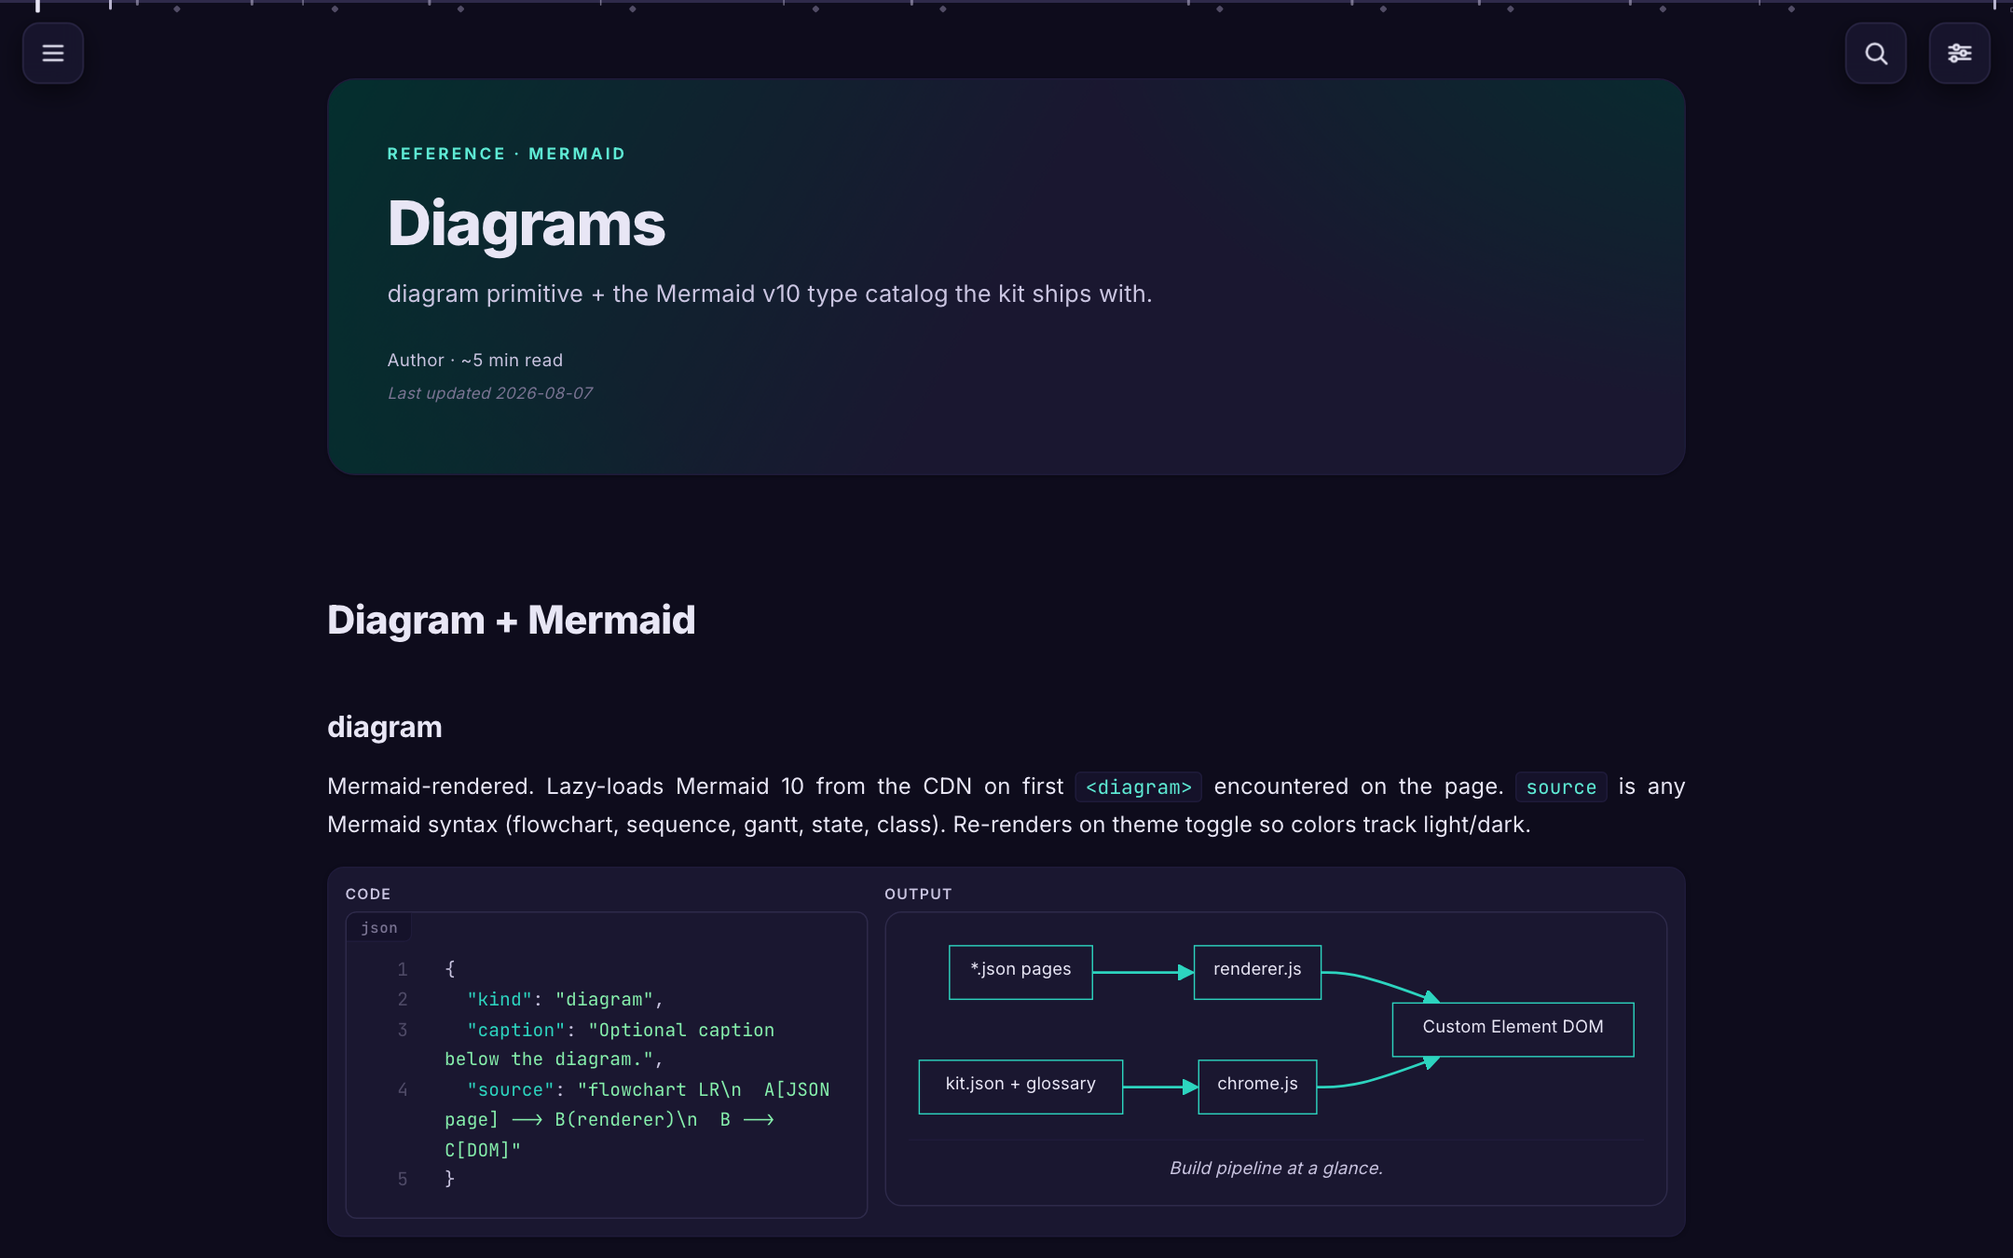
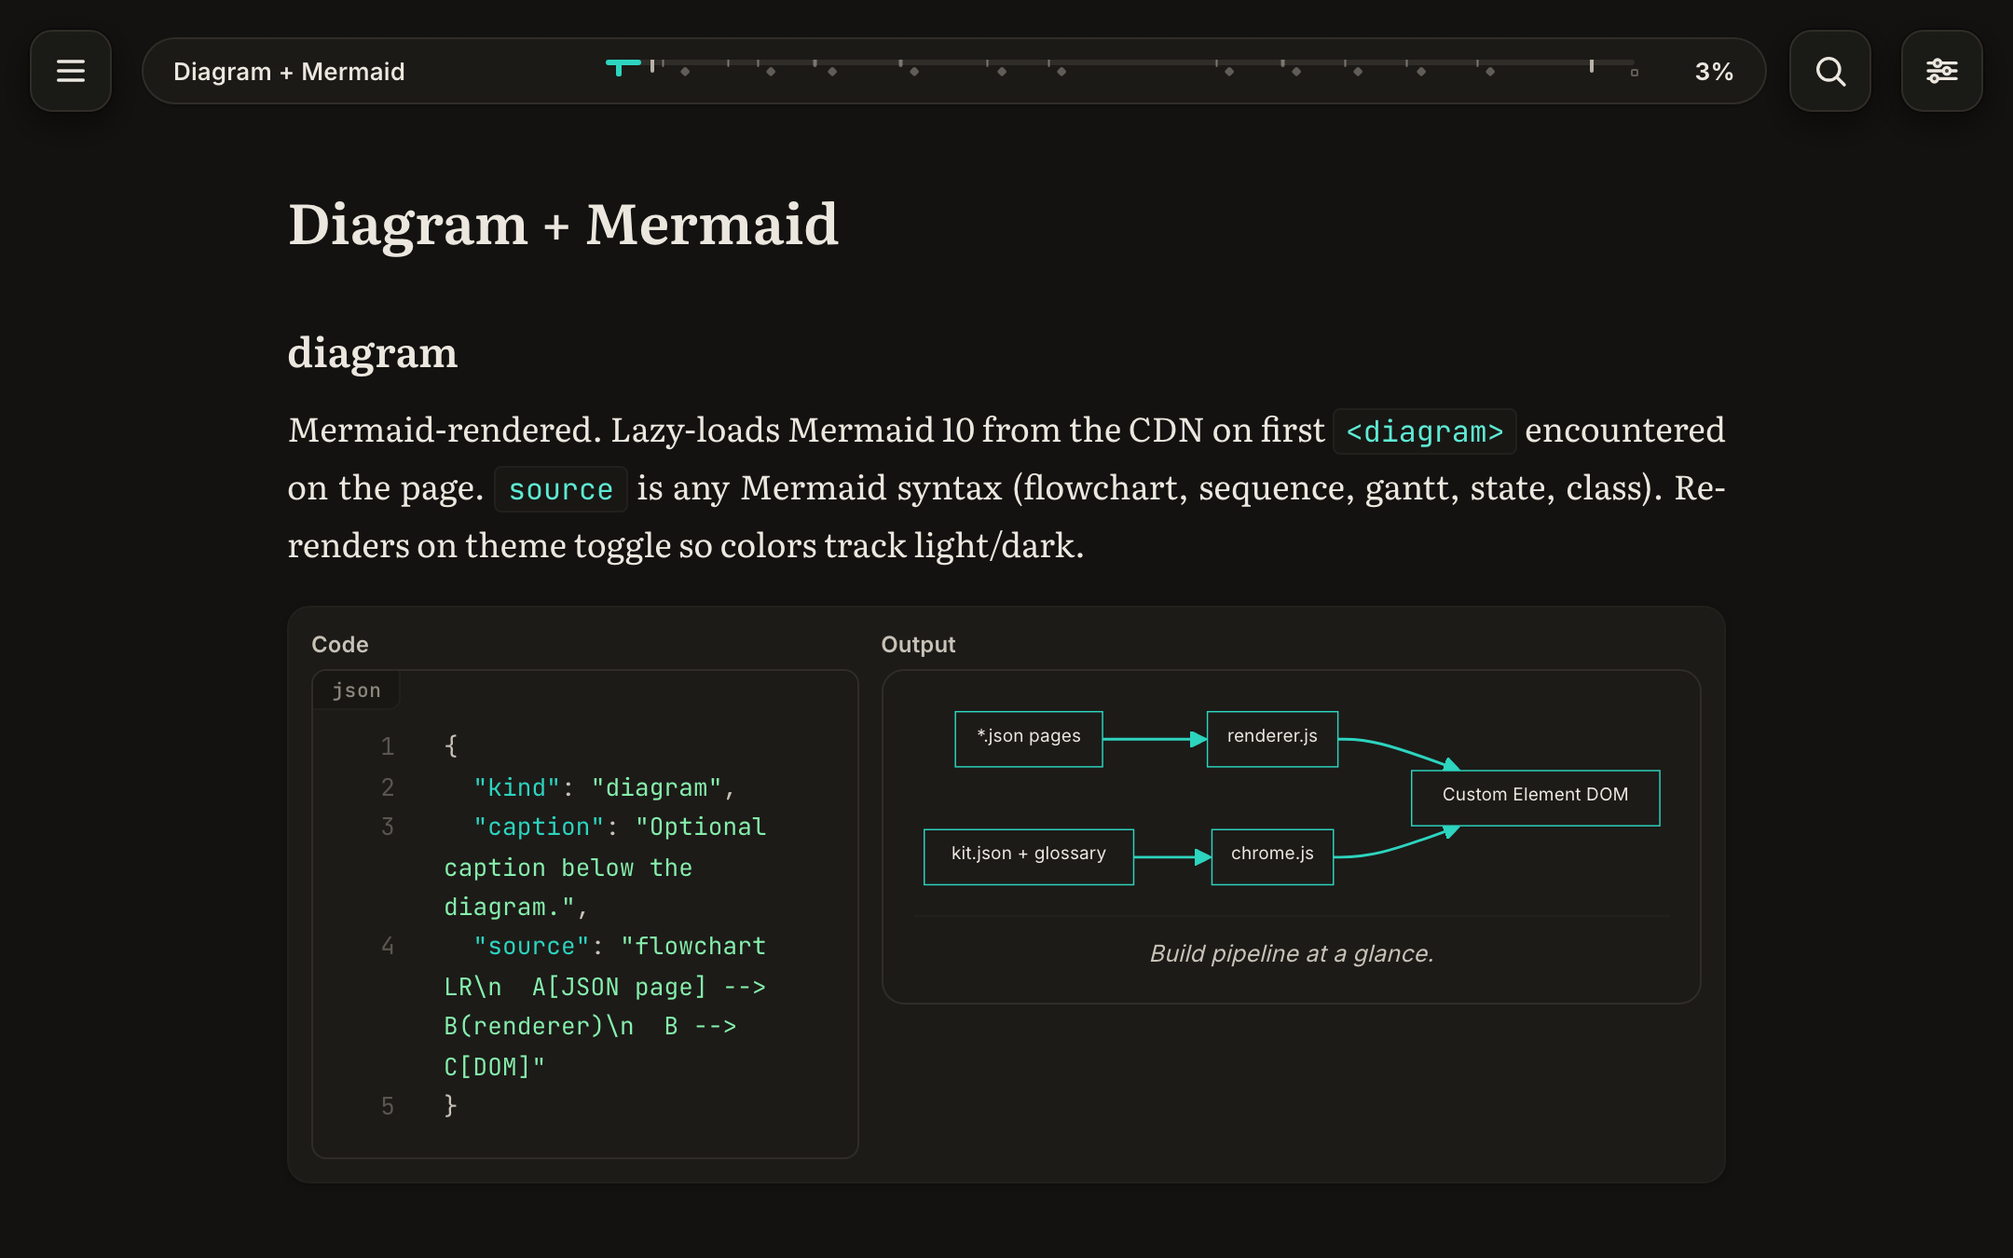
docs(site): landing and README screenshots retaken with kit r118
The six were from kit r82: tracked capitals, the tinted cover panel, Inter
in the reading column, no rail. tools/landing_shots.py now takes them: it
builds docs/ with this checkout, serves dist/site on loopback (search
needs Pagefind's index over HTTP), puts each page in a stated state,
measures it and writes .github/assets/ and the site/assets/ copies.

Captured, all @2x:
- readme-light/dark 1440x900: charts, drawer pinned (page-nav 0,0
  320x900, main at x=430), Composition heading at y=110, menu open
- landing-table 1080x740 (was 1080x675): the fence wraps in a half
  column, so the heading clears the rail at y=100 with the example at
  147..713
- landing-diagrams-dark 1080x675: section heading at y=84, the first
  rendered example at 325..635
- landing-search 1080x675: 'chart' over the reference page, 7 results
- landing-charts-mobile 390x844: scrollWidth 390

Alt text and one caption follow what is now shown: marimekko where the
hero said treemap, seven English results where it said thirteen across
both languages - search is scoped to the reader's language, so the
gallery caption no longer says 'every page and language'. The table
figure's height attribute is 1480. site/index.html is the landing
spec's output byte for byte.

diff --git a/site/index.html b/site/index.html
@@ -32,7 +32,7 @@
   <p class="lead">Charts, tables, diagrams and step flows are typed fences in an ordinary Markdown file. The browser renders them with Custom Elements; one command builds a multi-page site with search — and a single-file copy of every page that opens from <code>file://</code>, follows the OS theme and loads nothing from a CDN.</p>
   <div class="cta"><a class="btn btn-solid" href="docs/">Read the documentation</a><a class="btn btn-quiet" href="https://github.com/mmdemirbas/oku" rel=noopener><svg viewBox="0 0 16 16" aria-hidden="true"><path d="M8 0C3.58 0 0 3.58 0 8c0 3.54 2.29 6.53 5.47 7.59.4.07.55-.17.55-.38 0-.19-.01-.82-.01-1.49-2.01.37-2.53-.49-2.69-.94-.09-.23-.48-.94-.82-1.13-.28-.15-.68-.52-.01-.53.63-.01 1.08.58 1.23.82.72 1.21 1.87.87 2.33.66.07-.52.28-.87.51-1.07-1.78-.2-3.64-.89-3.64-3.95 0-.87.31-1.59.82-2.15-.08-.2-.36-1.02.08-2.12 0 0 .67-.21 2.2.82.64-.18 1.32-.27 2-.27.68 0 1.36.09 2 .27 1.53-1.04 2.2-.82 2.2-.82.44 1.1.16 1.92.08 2.12.51.56.82 1.27.82 2.15 0 3.07-1.87 3.75-3.65 3.95.29.25.54.73.54 1.48 0 1.07-.01 1.93-.01 2.2 0 .21.15.46.55.38A8.013 8.013 0 0 0 16 8c0-4.42-3.58-8-8-8z"/></svg>Source on GitHub</a></div>
   <div class="stats"><div><b>14</b><span>block kinds, from chart to annotated code</span></div><div><b>53</b><span>chart types behind one primitive</span></div><div><b>1</b><span>file per page — theme, fonts, Mermaid and Prism inside</span></div></div>
-  <div class="visual"><figure class="hero-fig frame window"><div class="bar"><i></i><i></i><i></i></div><picture><source media="(prefers-color-scheme: dark)" srcset="assets/readme-dark.png"><img src="assets/readme-light.png" alt="The charts reference rendered by oku: the Contents drawer pinned on the left with the site tree and the on-page TOC, a grid of pie, donut, waffle, treemap and polar-area previews in the reading column, and the display menu open at the top right with text size, column width, theme and language" loading="eager" width="2880" height="1800"></picture></figure></div>
+  <div class="visual"><figure class="hero-fig frame window"><div class="bar"><i></i><i></i><i></i></div><picture><source media="(prefers-color-scheme: dark)" srcset="assets/readme-dark.png"><img src="assets/readme-light.png" alt="The charts reference rendered by oku: the Contents drawer pinned on the left with the site tree and the on-page TOC, a grid of pie, donut, waffle, marimekko and polar-area previews in the reading column, and the display menu open at the top right with text size, column width, theme and language" loading="eager" width="2880" height="1800"></picture></figure></div>
 </div></section>
 
 <section id="why"><div class="wrap">
@@ -42,7 +42,7 @@
 
 <section id="how"><div class="wrap">
   <div class="section-head"><h2>From a fence to a page</h2><p>A table is fifteen lines of JSON in a <code>```oku-table</code> fence. The same file reads as plain Markdown on GitHub; built, it is the table on the right — sortable, filterable, with the author's own status words mapped to colour.</p></div>
-  <div class="how wide"><div><figure class="fig frame window"><div class="bar"><i></i><i></i><i></i></div><img src="assets/landing-table.png" alt="The tables reference: on the left the JSON of a table fence with headers, a status map and four rows; on the right the rendered table with sortable columns and done, in-progress and queued as coloured chips" loading="lazy" width="2160" height="1350"></figure></div><ol class="steps"><li><div><b>Write the fence</b><p>Front-matter, a GFM body, and one compact JSON object per <code>oku-*</code> fence. <code>[term](#g/id)</code> is a glossary tooltip, <code>[label](#f/path)</code> a file chip with a preview.</p></div></li><li><div><b>oku check</b><p>Schema, structure and presentation lint; <code>--strict</code> fails on warnings, <code>--fix</code> applies the mechanical rewrites. What passes here renders finished.</p></div></li><li><div><b>oku build</b><p><code>dist/standalone/</code> — one self-contained HTML per page; <code>dist/site/</code> — the multi-page site with its search index and <code>llms.txt</code>. <code>oku serve</code> is the same with live reload.</p></div></li><li><div><b>Ship either</b><p>Attach the single file, or publish the site folder anywhere static — this documentation is <code>docs/</code> of the repository, built by the kit itself on every push.</p></div></li></ol></div>
+  <div class="how wide"><div><figure class="fig frame window"><div class="bar"><i></i><i></i><i></i></div><img src="assets/landing-table.png" alt="The tables reference: on the left the JSON of a table fence with headers, a status map and four rows; on the right the rendered table with sortable columns and done, in-progress and queued as coloured chips" loading="lazy" width="2160" height="1480"></figure></div><ol class="steps"><li><div><b>Write the fence</b><p>Front-matter, a GFM body, and one compact JSON object per <code>oku-*</code> fence. <code>[term](#g/id)</code> is a glossary tooltip, <code>[label](#f/path)</code> a file chip with a preview.</p></div></li><li><div><b>oku check</b><p>Schema, structure and presentation lint; <code>--strict</code> fails on warnings, <code>--fix</code> applies the mechanical rewrites. What passes here renders finished.</p></div></li><li><div><b>oku build</b><p><code>dist/standalone/</code> — one self-contained HTML per page; <code>dist/site/</code> — the multi-page site with its search index and <code>llms.txt</code>. <code>oku serve</code> is the same with live reload.</p></div></li><li><div><b>Ship either</b><p>Attach the single file, or publish the site folder anywhere static — this documentation is <code>docs/</code> of the repository, built by the kit itself on every push.</p></div></li></ol></div>
   
 </div></section>
 <section id="install"><div class="wrap">
@@ -55,7 +55,7 @@ oku build         <span class="c"># dist/standalone/ + dist/site/</span></code><
 </div></section>
 <section id="gallery"><div class="wrap">
   <div class="section-head"><h2>What it looks like</h2><p>The kit documents itself with itself: every screen below is a page of the documentation, rendered by oku.</p></div>
-  <div class="gallery"><figure class="fig frame window"><div class="bar"><i></i><i></i><i></i></div><img src="assets/landing-diagrams-dark.png" alt="The diagrams reference in the dark theme: a Mermaid flowchart fence on the left and the rendered build pipeline on the right" loading="lazy" width="2160" height="1350"><figcaption>Dark follows the OS; Mermaid re-renders on a theme toggle so its colours track the page.</figcaption></figure><figure class="fig frame window"><div class="bar"><i></i><i></i><i></i></div><img src="assets/landing-search.png" alt="Full-text search open over the reference page, thirteen results for “chart” across English and Turkish pages, matches highlighted" loading="lazy" width="2160" height="1350"><figcaption>Search across every page and language, indexed at build time, no service behind it.</figcaption></figure><figure class="fig frame window"><div class="bar"><i></i><i></i><i></i></div><img src="assets/landing-charts-mobile.png" alt="The charts reference on a phone: the page header, the reading column at full width, the drawer and search as buttons" loading="lazy" width="780" height="1688"><figcaption>The same page on a phone: one column, the drawer behind a button, every chart at the width it has.</figcaption></figure></div>
+  <div class="gallery"><figure class="fig frame window"><div class="bar"><i></i><i></i><i></i></div><img src="assets/landing-diagrams-dark.png" alt="The diagrams reference in the dark theme: a Mermaid flowchart fence on the left and the rendered build pipeline on the right" loading="lazy" width="2160" height="1350"><figcaption>Dark follows the OS; Mermaid re-renders on a theme toggle so its colours track the page.</figcaption></figure><figure class="fig frame window"><div class="bar"><i></i><i></i><i></i></div><img src="assets/landing-search.png" alt="Full-text search open over the reference page, seven results for “chart” across the English pages, matches highlighted" loading="lazy" width="2160" height="1350"><figcaption>Search across every page in the reader’s language, indexed at build time, no service behind it.</figcaption></figure><figure class="fig frame window"><div class="bar"><i></i><i></i><i></i></div><img src="assets/landing-charts-mobile.png" alt="The charts reference on a phone: the page header, the reading column at full width, the drawer and search as buttons" loading="lazy" width="780" height="1688"><figcaption>The same page on a phone: one column, the drawer behind a button, every chart at the width it has.</figcaption></figure></div>
 </div></section><section id="cli"><div class="wrap">
   <div class="section-head"><h2>Command line</h2><p>One executable, eight verbs. Without installing, <code>uv run bin/oku</code> from the repository does the same.</p></div>
   <pre class="code"><code>oku init             <span class="c"># _oku symlink + index.html stub in the current directory</span>

diff --git a/tools/landing_shots.py b/tools/landing_shots.py
@@ -1,0 +1,183 @@
+#!/usr/bin/env python3
+"""Capture the README's and the landing page's screenshots from the docs.
+
+    uv run python tools/landing_shots.py [--no-build]
+
+Builds docs/ with this checkout's kit, serves docs/dist/site on loopback
+(search needs the HTTP tree: Pagefind fetches its index), and writes the
+six PNGs into .github/assets/ (the README's) and site/assets/ (the landing
+page's copies). Each shot puts the page in a stated state and measures it
+before capturing — the drawer pinned, the menu open, a heading at a given
+y — and prints those figures, so a re-run after a kit change shows the
+same scene rather than whatever the page happened to be doing, and the
+record of what was captured is the output of the run.
+"""
+
+from __future__ import annotations
+
+import argparse
+import functools
+import http.server
+import shutil
+import subprocess
+import sys
+import threading
+from pathlib import Path
+
+from playwright.sync_api import Page, sync_playwright
+
+from oku import cli
+
+ROOT = Path(__file__).resolve().parents[1]
+DOCS = ROOT / "docs"
+OUT = ROOT / ".github" / "assets"
+MIRROR = ROOT / "site" / "assets"
+SCALE = 2
+
+
+def _ready(page: Page) -> None:
+    page.wait_for_function("() => window.__okuRendered === true", timeout=60000)
+    page.evaluate("() => document.fonts.ready.then(() => true)")
+    # Mermaid and the compare-card previews draw after the page says it
+    # rendered; both are done once no node is still waiting on a frame.
+    page.wait_for_load_state("networkidle")
+    page.wait_for_timeout(900)
+
+
+def _scroll_to(page: Page, selector: str, y: int) -> float:
+    """Put the element's top at `y` and return where it actually landed."""
+    page.evaluate(
+        """([sel, y]) => { const el = document.querySelector(sel);
+             window.scrollTo({top: el.getBoundingClientRect().top + scrollY - y, behavior: 'instant'}); }""",
+        [selector, y],
+    )
+    page.wait_for_timeout(400)
+    return page.evaluate("(sel) => document.querySelector(sel).getBoundingClientRect().top", selector)
+
+
+def _box(page: Page, selector: str) -> list[int]:
+    r = page.evaluate(
+        """(sel) => { const r = document.querySelector(sel).getBoundingClientRect();
+             return [r.left, r.top, r.width, r.height]; }""",
+        selector,
+    )
+    return [round(v) for v in r]
+
+
+def hero(page: Page, base: str) -> str:
+    """The charts reference with the drawer pinned and the menu open."""
+    page.goto(f"{base}/charts.html")
+    _ready(page)
+    # A script click: a pointer moved onto the button would peek first.
+    page.evaluate("() => document.querySelector('.ctrl-btn.drawer-toggle').click()")
+    page.wait_for_function("() => document.body.classList.contains('drawer-pinned')")
+    page.wait_for_timeout(500)
+    top = _scroll_to(page, "#chart-fn-composition", 110)
+    page.evaluate("() => document.querySelector('.ctrl-btn.menu-toggle').click()")
+    page.wait_for_function(
+        "() => document.querySelector('.ctrl-btn.menu-toggle').getAttribute('aria-expanded') === 'true'"
+    )
+    page.wait_for_timeout(400)
+    return f"composition h4 top {top:.0f}, page-nav {_box(page, 'page-nav')}, main {_box(page, 'main')}"
+
+
+def table(page: Page, base: str) -> str:
+    """A table fence beside what it renders to."""
+    page.goto(f"{base}/tables.html")
+    _ready(page)
+    top = _scroll_to(page, "#tables-flat", 100)
+    ex = page.evaluate(
+        """() => { const h = document.querySelector('#tables-flat');
+             let n = h.nextElementSibling; while (n && !n.matches('.example, [class*=example]')) n = n.nextElementSibling;
+             const r = n.getBoundingClientRect(); return [Math.round(r.top), Math.round(r.bottom)]; }"""
+    )
+    return f"flat-rows heading top {top:.0f}, example {ex[0]}..{ex[1]} of {page.viewport_size['height']}"
+
+
+def diagrams(page: Page, base: str) -> str:
+    """A mermaid fence beside its diagram, in the dark theme."""
+    page.goto(f"{base}/diagrams.html")
+    _ready(page)
+    page.wait_for_function(
+        "() => document.querySelector('#diagram') && [...document.querySelectorAll('.okd-render svg')]"
+        ".some(s => s.getBoundingClientRect().width > 100)"
+    )
+    top = _scroll_to(page, "#diagrams > h2, h2#diagrams", 84)
+    ex = page.evaluate(
+        """() => { const h = document.querySelector('#diagram');
+             let n = h.nextElementSibling; while (n && !n.querySelector('.okd-render svg')) n = n.nextElementSibling;
+             const r = n.getBoundingClientRect(); return [Math.round(r.top), Math.round(r.bottom)]; }"""
+    )
+    return f"section heading top {top:.0f}, first rendered example {ex[0]}..{ex[1]} of {page.viewport_size['height']}"
+
+
+def search(page: Page, base: str) -> str:
+    """Search open over the reference page."""
+    page.goto(f"{base}/reference.html")
+    _ready(page)
+    page.evaluate("() => document.querySelector('.ctrl-btn[class*=search]').click()")
+    page.wait_for_selector(".search-input", state="visible")
+    page.fill(".search-input", "chart")
+    page.wait_for_function(
+        "() => /\\d/.test((document.querySelector('.search-status') || {}).textContent || '')"
+    )
+    page.wait_for_timeout(900)
+    status = page.evaluate("() => document.querySelector('.search-status').textContent.trim()")
+    return f"status '{status}'"
+
+
+def mobile(page: Page, base: str) -> str:
+    """The charts reference on a phone, at the top."""
+    page.goto(f"{base}/charts.html")
+    _ready(page)
+    width = page.evaluate("() => document.documentElement.scrollWidth")
+    return f"scrollWidth {width} of {page.viewport_size['width']}"
+
+
+SHOTS = [
+    # name, scene, viewport, colour scheme
+    ("readme-light.png", hero, (1440, 900), "light"),
+    ("readme-dark.png", hero, (1440, 900), "dark"),
+    # Taller than the others: the fence wraps in a half-column, and the
+    # heading has to clear the rail with the whole example below it.
+    ("landing-table.png", table, (1080, 740), "light"),
+    ("landing-diagrams-dark.png", diagrams, (1080, 675), "dark"),
+    ("landing-search.png", search, (1080, 675), "light"),
+    ("landing-charts-mobile.png", mobile, (390, 844), "light"),
+]
+
+
+def main() -> int:
+    ap = argparse.ArgumentParser(description=__doc__.split("\n\n")[0])
+    ap.add_argument("--no-build", action="store_true", help="capture the dist/site already built")
+    args = ap.parse_args()
+    if not args.no_build:
+        subprocess.run([sys.executable, "-m", "oku.cli", "build"], cwd=DOCS, check=True)
+    site = DOCS / "dist" / "site"
+    handler = functools.partial(cli._VerifySiteHandler, directory=str(site))
+    httpd = http.server.ThreadingHTTPServer(("127.0.0.1", 0), handler)
+    threading.Thread(target=httpd.serve_forever, daemon=True).start()
+    base = f"http://127.0.0.1:{httpd.server_address[1]}"
+    OUT.mkdir(parents=True, exist_ok=True)
+    try:
+        with sync_playwright() as p:
+            browser = p.chromium.launch()
+            for name, scene, (w, h), scheme in SHOTS:
+                ctx = browser.new_context(
+                    viewport={"width": w, "height": h}, device_scale_factor=SCALE, color_scheme=scheme
+                )
+                page = ctx.new_page()
+                note = scene(page, base)
+                page.screenshot(path=str(OUT / name))
+                ctx.close()
+                if MIRROR.is_dir():
+                    shutil.copy(OUT / name, MIRROR / name)
+                print(f"{name:28} {w}x{h}@{SCALE} {scheme:5}  {note}")
+            browser.close()
+    finally:
+        httpd.shutdown()
+    return 0
+
+
+if __name__ == "__main__":
+    sys.exit(main())

diff --git a/README.md b/README.md
@@ -10,7 +10,7 @@ with search, and a single-file copy of every page that opens from
 
 <picture>
   <source media="(prefers-color-scheme: dark)" srcset=".github/assets/readme-dark.png">
-  <img alt="The charts reference rendered by oku: the Contents drawer pinned on the left with the site tree and on-page TOC, a grid of pie, donut, waffle, treemap and polar-area previews in the reading column, and the display menu open at the top right with text size, column width, theme and language" src=".github/assets/readme-light.png" width="100%">
+  <img alt="The charts reference rendered by oku: the Contents drawer pinned on the left with the site tree and on-page TOC, a grid of pie, donut, waffle, marimekko and polar-area previews in the reading column, and the display menu open at the top right with text size, column width, theme and language" src=".github/assets/readme-light.png" width="100%">
 </picture>
 
 ## Why
